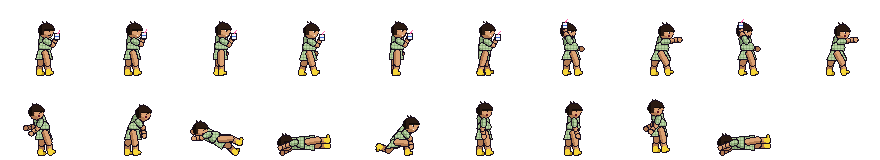
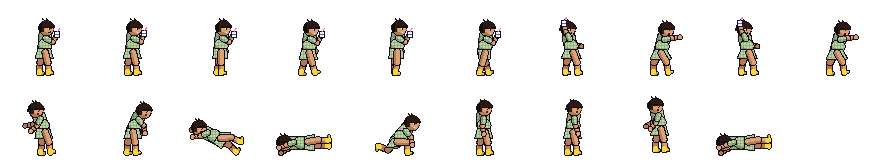
v0.7 part 2: patients are the same size as the staff
- Bill's v0.7 rule for this game: every patient type, elite and variant uses the nurses' build (NURSE_BUILD in
  tools/chars.py); bodies stand ~57 px like the nurses (56 px average). Only hair, hats, props and a little belly differ;
  the elite's beehive is lower. The Belligerent Visitor matches Nick's height with slightly broader shoulders.
- Patient hitboxes match the staff: h 52 / w 14 (visitor h 56 / w 16; nurses are h 48-54).
- tests/v07.py section D measures every sheet against the nurses (median within 6%, each within 10%, hats/poles 18%).
- Suites: patients, props, v04, v06, smoke pass with no console errors.

diff --git a/src/enemy.js b/src/enemy.js
@@ -39,7 +39,7 @@ export class Enemy extends Actor {
     super(VARIANTS[kind] ? VARIANTS[kind][variant % VARIANTS[kind].length] : lookFor(kind, variant), x, y);
     // v0.5: radiology variants reuse another patient's AI (d.ai); this.type keeps the patient's own id
     this.kind = d.ai || kind; this.type = kind; this.d = d; this.maxHp = this.hp = Math.round(d.hp * W.diff.hp * (W.heroes.length > 1 ? 1.25 : 1));
-    this.cd = 0.8 + W.rnd() * 1.2; this.armor = d.armor || 0; this.armorT = 0; this.big = !!d.big; this.h = d.big ? 62 : 50; this.w = d.big ? 20 : 14;
+    this.cd = 0.8 + W.rnd() * 1.2; this.armor = d.armor || 0; this.armorT = 0; this.big = !!d.big; this.h = d.big ? 56 : 52; this.w = d.big ? 16 : 14;  // v0.7: patients are staff-sized (nurse hitbox h 48-54)
     this.side = W.rnd() < 0.5 ? -1 : 1; this.wob = W.rnd() * 6; this.target = null; this.tx = x; this.ty = y; this.speechT = 2 + W.rnd() * 6;
     this.tank = this.kind === 'o2'; this.runT = 0; this.beepT = 0;
   }

diff --git a/tests/v07.py b/tests/v07.py
@@ -179,9 +179,12 @@ with sync_playwright() as p:
         nurses = {n: size(n) for n in ('nick', 'kim', 'will', 'jackie')}
         NH = sum(v[1] for v in nurses.values()) / 4; NW = sum(v[0] for v in nurses.values()) / 4
         pats = {k: size(k) for k in ('wanderer', 'spammer', 'escape', 'ivswing', 'sundowner', 'crutch', 'bell', 'elite', 'runner', 'tray', 'o2', 'barium', 'apron', 'yeller', 'visitor')}
-        bad = {k: round(v[1] / NH, 2) for k, v in pats.items() if not 0.88 <= v[1] / NH <= (1.16 if k == 'visitor' else 1.12)}
-        check('every patient type, elite and variant is nurse height (within ~10%)', not bad, [round(NH, 1), {k: v[1] for k, v in pats.items()}, bad])
-        wide = {k: round(v[0] / NW, 2) for k, v in pats.items() if not 0.75 <= v[0] / NW <= 1.45}
+        # the bodies share the nurses' build; the beehive (elite), nightcap (sundowner), O2 tubing and IV pole stick up a little
+        tall_kit = ('elite', 'sundowner', 'o2', 'ivswing')
+        bad = {k: round(v[1] / NH, 2) for k, v in pats.items() if not 0.9 <= v[1] / NH <= (1.18 if k in tall_kit else 1.1)}
+        med = sorted(v[1] for v in pats.values())[len(pats) // 2]
+        check('every patient type, elite and variant is nurse height (median within 6%, each within 10%, hats/poles 18%)', not bad and abs(med / NH - 1) <= 0.06, [round(NH, 1), med, {k: v[1] for k, v in pats.items()}, bad])
+        wide = {k: round(v[0] / NW, 2) for k, v in pats.items() if not 0.75 <= v[0] / NW <= (1.75 if k == 'tray' else 1.45)}  # the tray patient holds a meal tray out
         check('patients have a nurse-like build (width)', not wide, [round(NW, 1), {k: v[0] for k, v in pats.items()}, wide])
         boss = {'tilly': size('tilly'), 'mri': size('mri'), 'lou': size('lou')}
         ratio = {k: round(v[1] / NH, 2) for k, v in boss.items()}
@@ -197,7 +200,7 @@ with sync_playwright() as p:
             r = pg.evaluate("(()=>{const B=__nbd.W.boss,h=__nbd.W.heroes[0]; return {w:B.w, h:B.h, hh:h.h};})()")
             check(f'{name}: hitbox scaled down with the art (h {r["h"]} vs nurse {r["hh"]})', 1.15 <= r['h'] / 54 <= 1.6, r)
             t0 = time.time(); hurt = 0
-            while time.time() - t0 < 240:
+            while time.time() - t0 < 420:
                 st = pg.evaluate("(()=>{const B=__nbd.W.boss, h=__nbd.W.heroes[0]; return {dead: !B || B.st==='defeat' || B.hp<=0 || !B.alive, hp: B?B.hp:0, hits: h.hitsTaken||0, scene: __nbd.game.scene};})()")
                 if st['dead'] or st['scene'] != 'play': break
                 time.sleep(2)

diff --git a/tools/chars.py b/tools/chars.py
@@ -113,9 +113,9 @@ def bald_ring(S, hc, r, b, pose):
 def beehive(S, hc, r, b, pose):
     """Tall beehive with pink curlers (elite patients)."""
     c, sh = b["hair_c"], b["hair_s"]
-    S.ellipse((hc[0] - 1.5, hc[1] - r * 1.25), r * 0.95, r * 1.05, c, sh)
-    S.ellipse((hc[0] - 0.5, hc[1] - r * 2.05), r * 0.6, r * 0.55, c, sh)
-    for dx, dy in ((-r * 0.7, -r * 1.2), (r * 0.3, -r * 1.6), (-r * 0.2, -r * 2.2)):
+    S.ellipse((hc[0] - 1.5, hc[1] - r * 1.0), r * 0.95, r * 0.85, c, sh)      # v0.7: a lower 'hive so she stands nurse height
+    S.ellipse((hc[0] - 0.5, hc[1] - r * 1.6), r * 0.6, r * 0.45, c, sh)
+    for dx, dy in ((-r * 0.7, -r * 1.0), (r * 0.3, -r * 1.3), (-r * 0.2, -r * 1.75)):
         x, y = int(hc[0] + dx), int(hc[1] + dy)
         S.set(x, y, "#ff8ac0"); S.set(x + 1, y, "#ff8ac0"); S.set(x, y + 1, "#c8508a"); S.set(x + 1, y + 1, "#c8508a")
 
@@ -301,7 +301,17 @@ def bodies():
                          skin=sk["brown"][0], skin_s=sk["brown"][1], hair_c="#2a1a12", hair_s="#140c08", hair=hair_cap(top=-0.35, back=0.2, grow=0.5, seed=14),
                          **{**gown, "shirt": "#2a6a9a", "shirt_s": "#1c4c74", "gown_len": 10}, pants=sk["brown"][0], pants_s=sk["brown"][1],
                          shoe=SOCK[0], shoe_s=SOCK[1], sock=SOCK[0])
+    # v0.7 (Bill): patients are the SAME size as the staff. Every patient type, elite and variant gets the nurses' average
+    # height and build (only hair, props and a little belly differ). The Belligerent Visitor matches Nick's height with
+    # slightly broader shoulders. The mini-boss Lou is sized separately (boss rule: ~1.2-1.5x a nurse).
+    NURSE_BUILD = dict(thigh=10.5, shin=10.5, torso=16.5, head=6.6, uarm=8, farm=8, arm_w=3.6, leg_w=5.0, torso_w=12, fist=2.0, foot=2)
+    for k in PATIENT_KINDS:
+        B[k].update(NURSE_BUILD); B[k]["belly"] = min(1.0, B[k].get("belly", 0))
+    B["visitor"].update(thigh=11, shin=11, torso=17, head=6.8, uarm=8.4, farm=8.2, arm_w=4.2, leg_w=5.4, torso_w=14, belly=1.0)
     return B
+
+
+PATIENT_KINDS = ["wanderer", "spammer", "escape", "ivswing", "sundowner", "crutch", "bell", "elite", "runner", "tray", "o2", "barium", "apron", "yeller"]
 
 
 # ---------------- animations

diff --git a/AGENTS.md b/AGENTS.md
@@ -17,6 +17,9 @@ and no dependencies at runtime. Live on GitHub Pages: https://unclebill-spec.git
     `grabContext()` in main.js: THROW (carrying) > TOSS (holding) > GRAB (patient in reach, no weapon) > RIDE > PICK UP. Stats: `W.stats.grabs/tosses/slams`.
   - **How to play:** `drawHelp()` in main.js is two pages (CONTROLS / MOVES), max 44 chars a line, panel height `min(VH - 34, 190)` so it clears the phone pause row.
   - **BEEF JERKY** replaces SNAP STIX (`jerky` item, `V6.jerky()` art in tools/v06_art.py, sounds in tools/v07_audio.py: jerky, toss, slam).
+  - **Patients = staff size (Bill's v0.7 rule for this game):** `NURSE_BUILD` is applied to every kind in `PATIENT_KINDS` at the end of
+    `bodies()` in tools/chars.py (visitor: Nick height, broader). Runtime hitbox in enemy.js: h 52 / w 14 (visitor h 56 / w 16).
+    Don't make patients bigger or smaller than the nurses again.
   - Tests: `tests/v07.py` (A keyboard grab/toss/slam/knee + help pages, B priority/pad/2P/touch layout, C jerky, D sizes).
 - **v0.6 additions:**
   - **Carry/throw props:** `carry: true` in `BREAKABLES` (data.js). Hero `lift`/`carry`/`toss` states in hero.js, flight physics `flyProp`/`landProp` and `THROW` in world.js. Priority: patient grab > gurney > weapon > lift > throw weapon.

diff --git a/CHANGELOG.md b/CHANGELOG.md
@@ -11,6 +11,10 @@ All notable changes to Nick's Very Bad, Terrible Bad Day Part II. Dates are Amer
   - Context priority for the one button: throw a carried prop > toss a held patient > grab a patient > ride a gurney > pick up a weapon or prop.
     The touch button relabels itself GRAB / TOSS / RIDE / PICK UP / THROW, and a small <SLAM TOSS> hint shows on your first grabs each floor.
   - New sounds: toss whoosh and slam thud.
+- **Patients are the same size as the staff** (Bill: unlike most games). Every patient type, elite and variant now uses the nurses'
+  build (`NURSE_BUILD` in tools/chars.py): bodies stand ~57 px like the nurses (56 px average). Only hair, hats, props and a little belly
+  differ; the elite's beehive was lowered. The Belligerent Visitor matches Nick's height with slightly broader shoulders. Hitboxes match
+  too (patients h 52, visitor 56, nurses 48-54).
 - **How to play** is now two pages (CONTROLS and MOVES) that fit on a phone screen above the pause button; flip with PAGE or left/right.
 - **SNAP STIX is now BEEF JERKY** everywhere: a made-up kraft-bag wrapper with a red BEEF JERKY label (no real brand), "BEEF JERKY!"
   pickup text, its own crunchy-chew sound, docs and tests.
